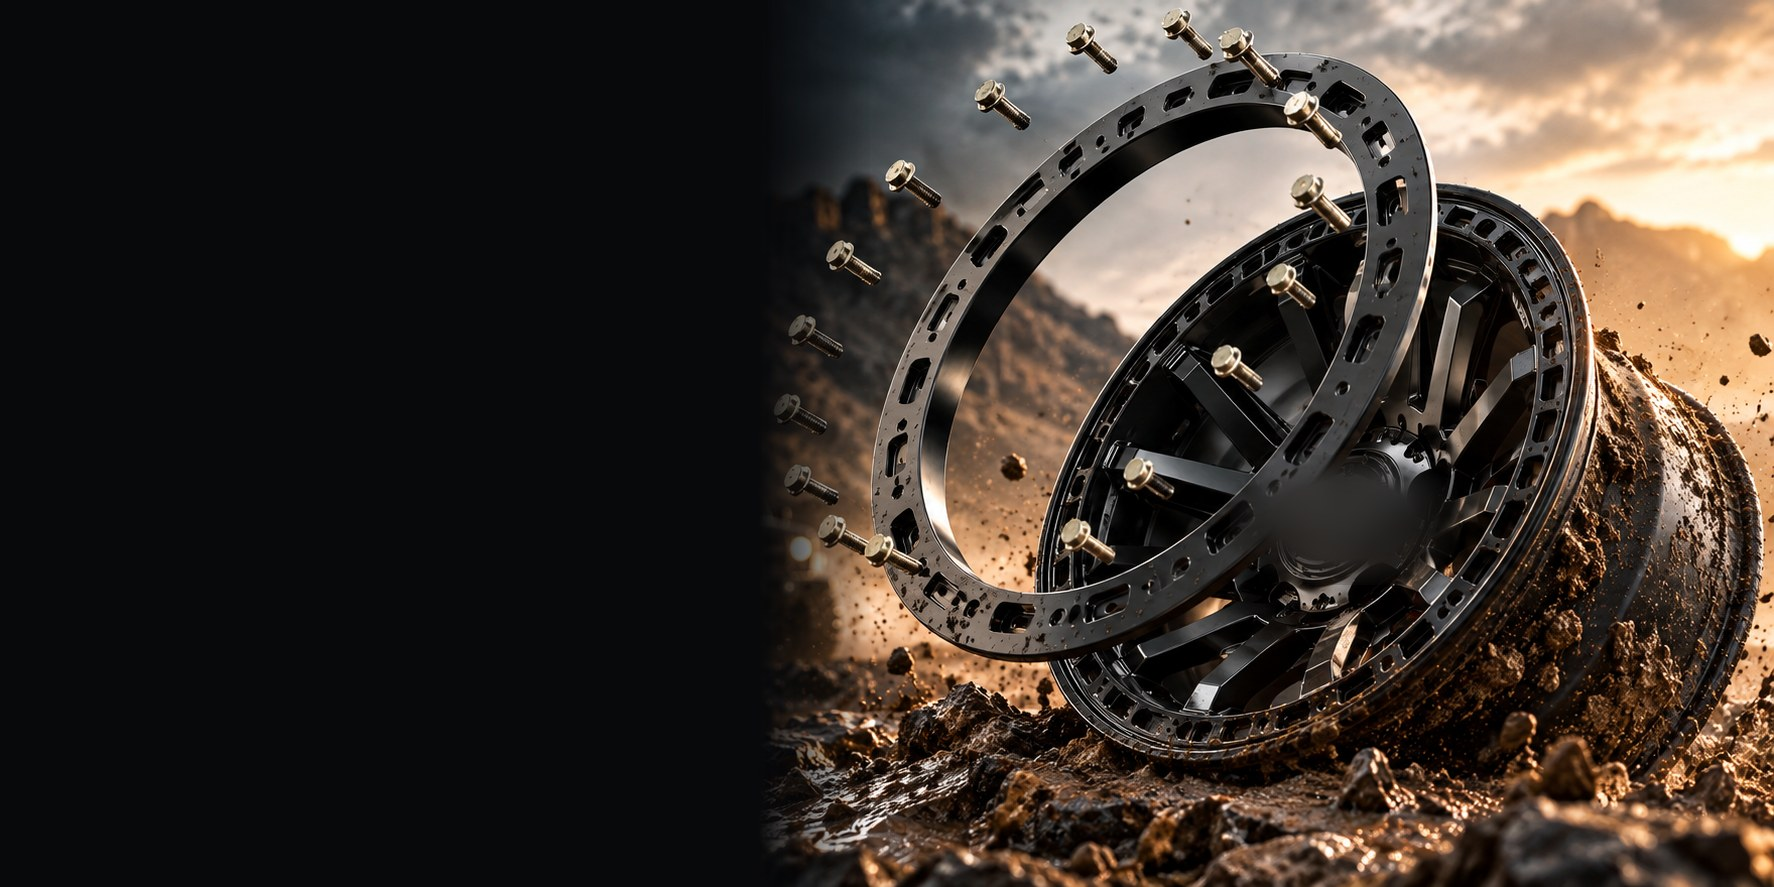
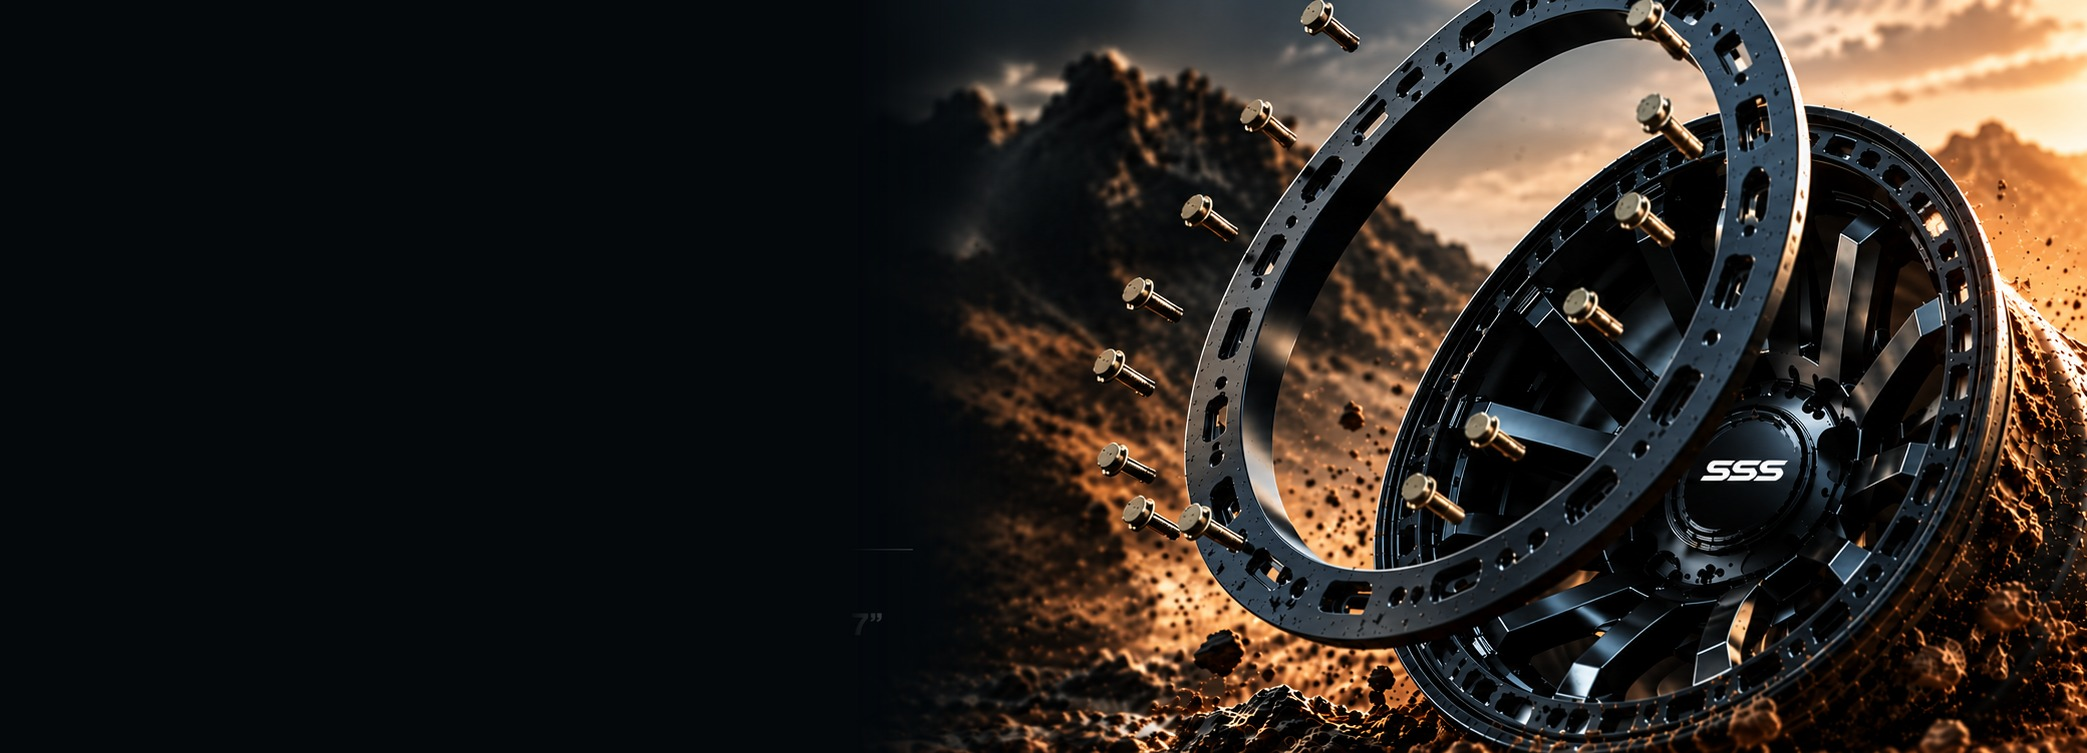
Update trade accounts band photo, show every wheel finish as its own card
Swap the footer's hero photo for the manager's new render, which has SSS
branded directly onto the wheel hub instead of a separately composited
glow logo. Removed the now-redundant floating logo overlay. The new
photo's dark panel had faint baked-in mockup text underneath my own live
headline/CTA copy, invisible at normal brightness but clearly ghosting
through once the scrim darkened it further -- painted over that region
before using the image.

Also switch /wheels from grouping by model to grouping by finish, so the
catalogue shows one card per real colourway (7) instead of 2 cards each
hiding their finishes behind a cramped swatch grid, mirroring the
already-shipped approach on the home page range slider.

diff --git a/src/app/wheels/WheelsCatalogue.tsx b/src/app/wheels/WheelsCatalogue.tsx
@@ -7,7 +7,7 @@ import {
   MODELS,
   WHEELS,
   PORTAL,
-  groupWheels,
+  groupWheelsByFinish,
   defaultVariantIndex,
   type WheelGroup,
 } from "@/lib/wheels-data";
@@ -15,7 +15,9 @@ import { useScrollProgress } from "@/lib/useScrollProgress";
 import styles from "./Wheels.module.css";
 
 export default function WheelsCatalogue() {
-  const groups = useMemo(() => groupWheels(WHEELS), []);
+  // One card per real finish (not per model) -- shows every distinct colourway
+  // as its own card instead of burying them in one model card's swatch grid.
+  const groups = useMemo(() => groupWheelsByFinish(WHEELS), []);
 
   const heroRef = useScrollProgress<HTMLDivElement>((p, el) => {
     const img = el.querySelector<HTMLElement>("[data-hero-img]");
@@ -147,21 +149,22 @@ function WheelCard({ group }: { group: WheelGroup }) {
       <div className={styles.cardSwatchBlock}>
         <span className={styles.finishLabel}>{w.variant}</span>
         {group.variants.length > 1 && (
-          <div className={styles.swatchRow} role="radiogroup" aria-label="Size and finish">
+          <div className={styles.sizeChips} role="radiogroup" aria-label="Size and bolt pattern">
             {group.variants.map((v, i) => (
               <button
                 key={v.id}
                 type="button"
                 role="radio"
                 aria-checked={i === active}
-                aria-label={`${v.variant} — ${v.size} · ${v.pcd}`}
-                title={`${v.variant} — ${v.size} · ${v.pcd}`}
-                className={`${styles.swatch} ${i === active ? styles.swatchActive : ""}`}
+                aria-label={`${v.size} · ${v.pcd}`}
+                title={`${v.size} · ${v.pcd}`}
+                className={`${styles.sizeChip} ${i === active ? styles.sizeChipActive : ""}`}
                 onMouseEnter={() => setActive(i)}
                 onFocus={() => setActive(i)}
                 onClick={() => setActive(i)}
               >
-                <Image src={v.img} alt="" fill sizes="64px" className={styles.swatchImg} />
+                <span className={styles.sizeChipSize}>{v.size}</span>
+                <span className={styles.sizeChipPcd}>{v.pcd}</span>
               </button>
             ))}
           </div>

diff --git a/src/app/wheels/Wheels.module.css b/src/app/wheels/Wheels.module.css
@@ -167,38 +167,53 @@
   transform: scale(1.07);
 }
 
-.swatchRow {
+.sizeChips {
   display: flex;
   gap: 8px;
   flex-wrap: wrap;
 }
 
-.swatch {
-  position: relative;
-  width: 56px;
-  height: 56px;
+.sizeChip {
+  display: flex;
+  flex-direction: column;
+  align-items: center;
+  justify-content: center;
+  min-width: 64px;
+  padding: 7px 12px;
   border-radius: 8px;
-  border: 2px solid var(--line);
+  border: 1.5px solid var(--line);
   background: var(--surface-2);
-  overflow: hidden;
-  padding: 0;
+  box-sizing: border-box;
   cursor: pointer;
-  transition: border-color 0.15s, transform 0.15s;
-  flex: none;
+  transition: border-color 0.15s, background 0.15s, transform 0.15s;
 }
 
-.swatch:hover {
-  border-color: #aaa;
+.sizeChip:hover {
   transform: translateY(-2px);
 }
 
-.swatchActive {
-  border-color: var(--black);
-  transform: translateY(-2px);
+.sizeChipActive {
+  border-color: var(--red);
+  background: var(--white);
 }
 
-.swatchImg {
-  object-fit: contain;
+.sizeChipSize {
+  font-family: var(--font-barlow), sans-serif;
+  font-weight: 800;
+  font-size: 14px;
+  line-height: 1.2;
+  color: var(--black);
+}
+
+.sizeChipActive .sizeChipSize {
+  color: var(--red);
+}
+
+.sizeChipPcd {
+  font-size: 11px;
+  letter-spacing: 0.02em;
+  color: var(--ink-3);
+  line-height: 1.2;
 }
 
 .cardTextBlock {

diff --git a/src/components/SiteFooter.tsx b/src/components/SiteFooter.tsx
@@ -52,15 +52,6 @@ export default function SiteFooter() {
           />
         </div>
         <div className={styles.bandScrim} />
-        <div className={styles.bandLogoGlow} aria-hidden="true">
-          <Image
-            src="/assets/trade/sss-glow-mark.png"
-            alt=""
-            fill
-            sizes="330px"
-            className={styles.bandLogoGlowImg}
-          />
-        </div>
         <div className={`${styles.bandInner} ${revealed ? styles.inView : ""}`}>
           <div className={styles.bandKicker}>
             <span />

diff --git a/src/components/SiteFooter.module.css b/src/components/SiteFooter.module.css
@@ -21,7 +21,7 @@
 
 .bandBgImg {
   object-fit: cover;
-  object-position: center 40%;
+  object-position: center 62%;
 }
 
 .bandScrim {
@@ -36,26 +36,6 @@
   );
   z-index: 1;
   pointer-events: none;
-}
-
-.bandLogoGlow {
-  position: absolute;
-  left: 51%;
-  top: 16%;
-  width: clamp(180px, 20vw, 300px);
-  aspect-ratio: 330 / 220;
-  z-index: 1;
-  pointer-events: none;
-}
-
-.bandLogoGlowImg {
-  object-fit: contain;
-}
-
-@media (max-width: 860px) {
-  .bandLogoGlow {
-    display: none;
-  }
 }
 
 .bandInner {
